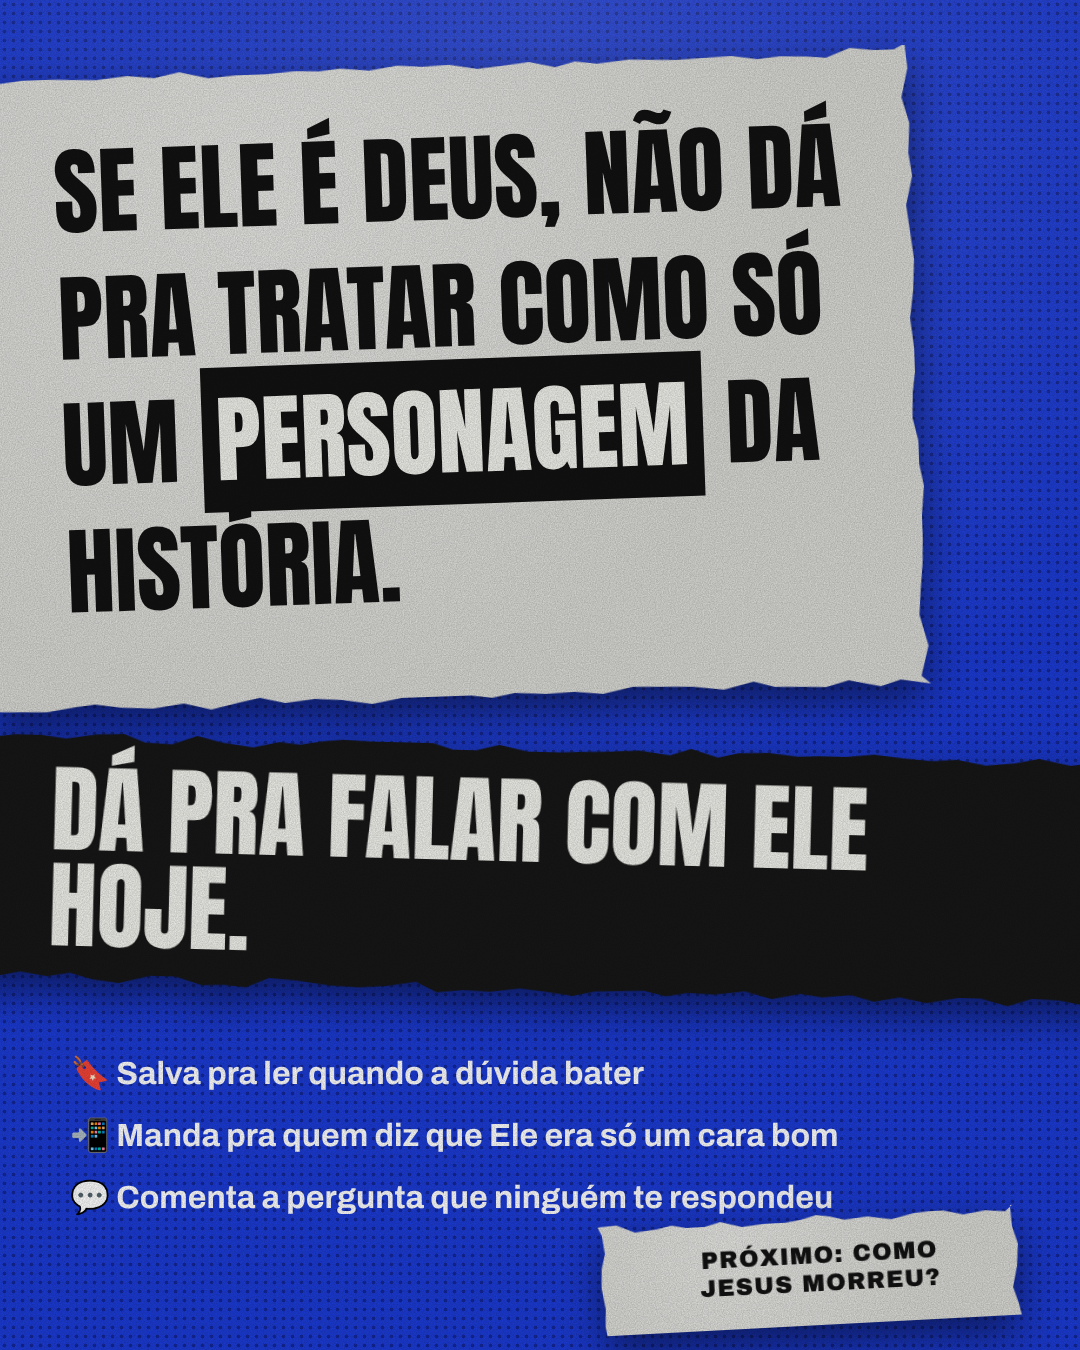
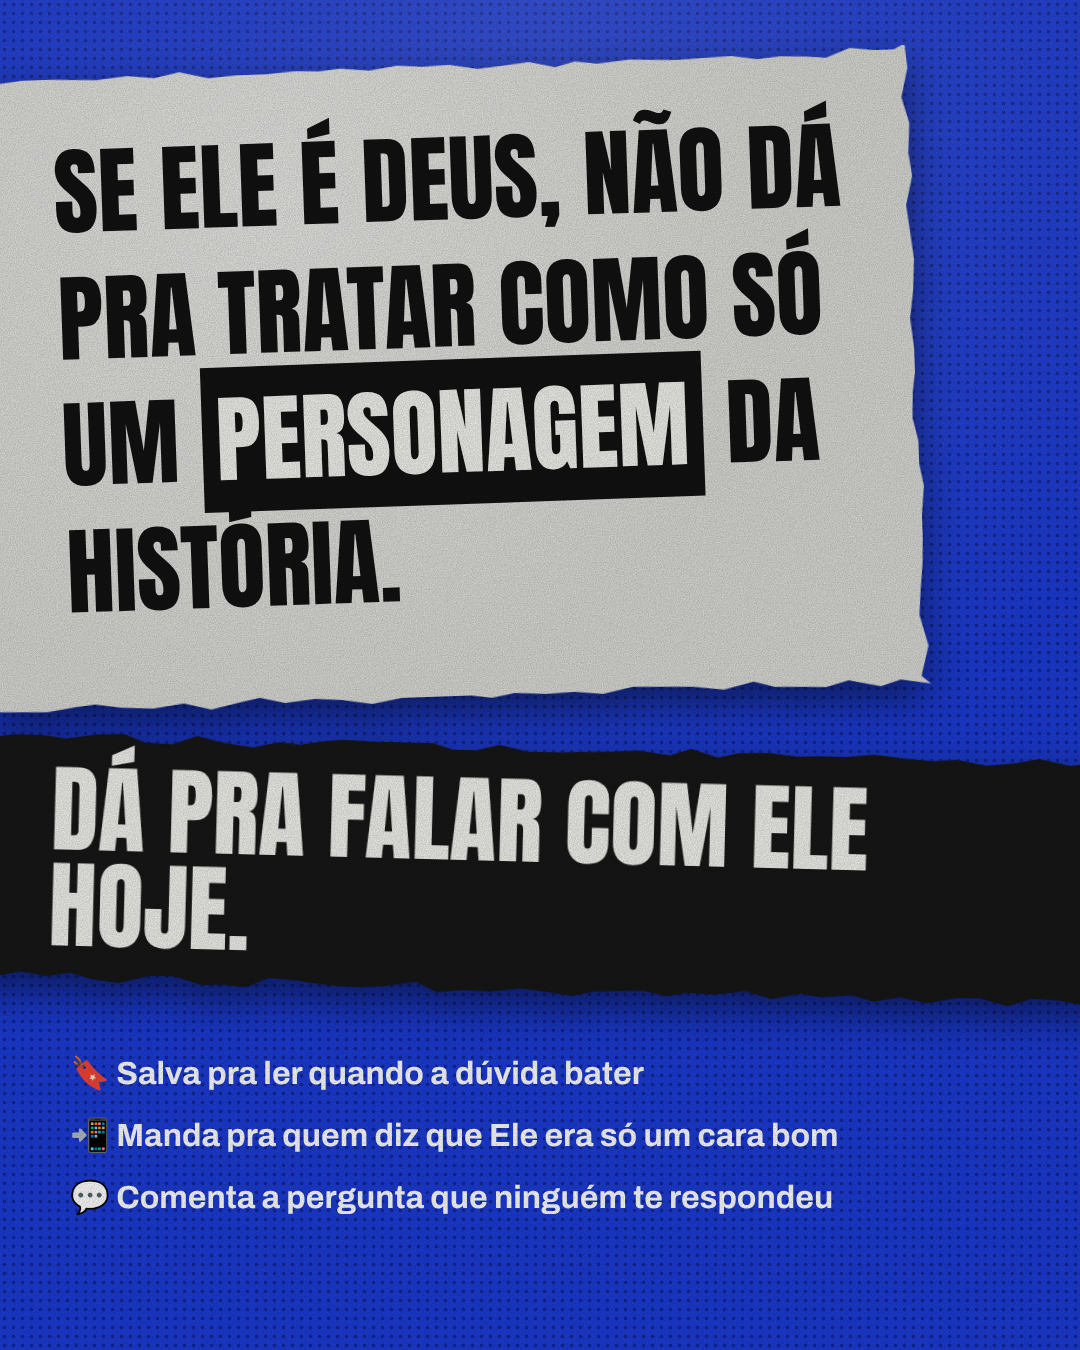
Remove next-post teaser from post 02 final slide and caption
Claude-Session: https://claude.ai/code/session_01MihRDu9S7C7FuK2X9gVU2q

Changed region(s): [[0.55, 0.8711, 0.9778, 1.0]]

diff --git a/instagram-jesus/post-02/slides.html b/instagram-jesus/post-02/slides.html
@@ -104,6 +104,5 @@
   <div style="margin-bottom:14px">🔖 Salva pra ler quando a dúvida bater</div>
   <div style="margin-bottom:14px">📲 Manda pra quem diz que Ele era só um cara bom</div>
   <div>💬 Comenta a pergunta que ninguém te respondeu</div></div>
- <div class="wrap" style="left:600px;top:1215px;width:440px;height:110px;transform:rotate(-3deg)"><div class="paper" style="clip-path:polygon(0px 1px,19px 0px,37px 8px,59px 6px,74px 3px,88px 6px,107px 6px,123px 2px,144px 8px,167px 6px,188px 6px,203px 4px,219px 0px,232px 2px,247px 6px,270px 4px,294px 8px,317px 3px,332px 2px,346px 2px,366px 7px,388px 4px,408px 6px,415px 0px,413px 0px,414px 21px,419px 39px,417px 61px,412px 82px,417px 99px,420px 114px,406px 119px,392px 113px,370px 119px,349px 112px,329px 117px,310px 119px,298px 112px,278px 116px,255px 117px,232px 113px,218px 118px,202px 118px,183px 118px,166px 119px,143px 117px,126px 115px,103px 117px,80px 116px,62px 116px,49px 116px,35px 120px,14px 119px,6px 120px,3px 101px,4px 83px,1px 62px,2px 43px,6px 28px,4px 10px);display:flex;align-items:center;justify-content:center"><div class="lab" style="font-size:24px;line-height:1.15;text-align:center">Próximo: como<br>Jesus morreu?</div></div></div>
-</div>
+ </div>
 </body></html>

diff --git a/instagram-jesus/post-02/build.py b/instagram-jesus/post-02/build.py
@@ -141,8 +141,7 @@ html='''<!doctype html><html><head><meta charset="utf-8">
   <div style="margin-bottom:14px">🔖 Salva pra ler quando a dúvida bater</div>
   <div style="margin-bottom:14px">📲 Manda pra quem diz que Ele era só um cara bom</div>
   <div>💬 Comenta a pergunta que ninguém te respondeu</div></div>
- <div class="wrap" style="left:600px;top:1215px;width:440px;height:110px;transform:rotate(-3deg)"><div class="paper" style="clip-path:%%t2%%;display:flex;align-items:center;justify-content:center"><div class="lab" style="font-size:24px;line-height:1.15;text-align:center">Próximo: como<br>Jesus morreu?</div></div></div>
-</div>
+ </div>
 </body></html>'''
 html=html.replace('%%cross_w%%',cross(70,'#fff')).replace('%%cross_sm%%',cross(110,'#d9d9d5')).replace('%%cross_w2%%',cross(70,'#f1f1ec'))
 for k,v in T.items(): html=html.replace('%%'+k+'%%',v)

diff --git a/instagram-jesus/post-02/legenda.md b/instagram-jesus/post-02/legenda.md
@@ -14,6 +14,4 @@ Se Ele é Deus, dá pra falar com Ele hoje. 🙏
 📲 Manda pra quem diz que Jesus era só um cara bom
 💬 Comenta a pergunta que ninguém te respondeu. O próximo post pode ser a resposta.
 
-Próximo: como Jesus morreu?
-
 #jesus #jesuscristo #igrejacatolica #catolico #catecismo #credo #santoatanasio #jovenscatolicos #fe #evangelho
